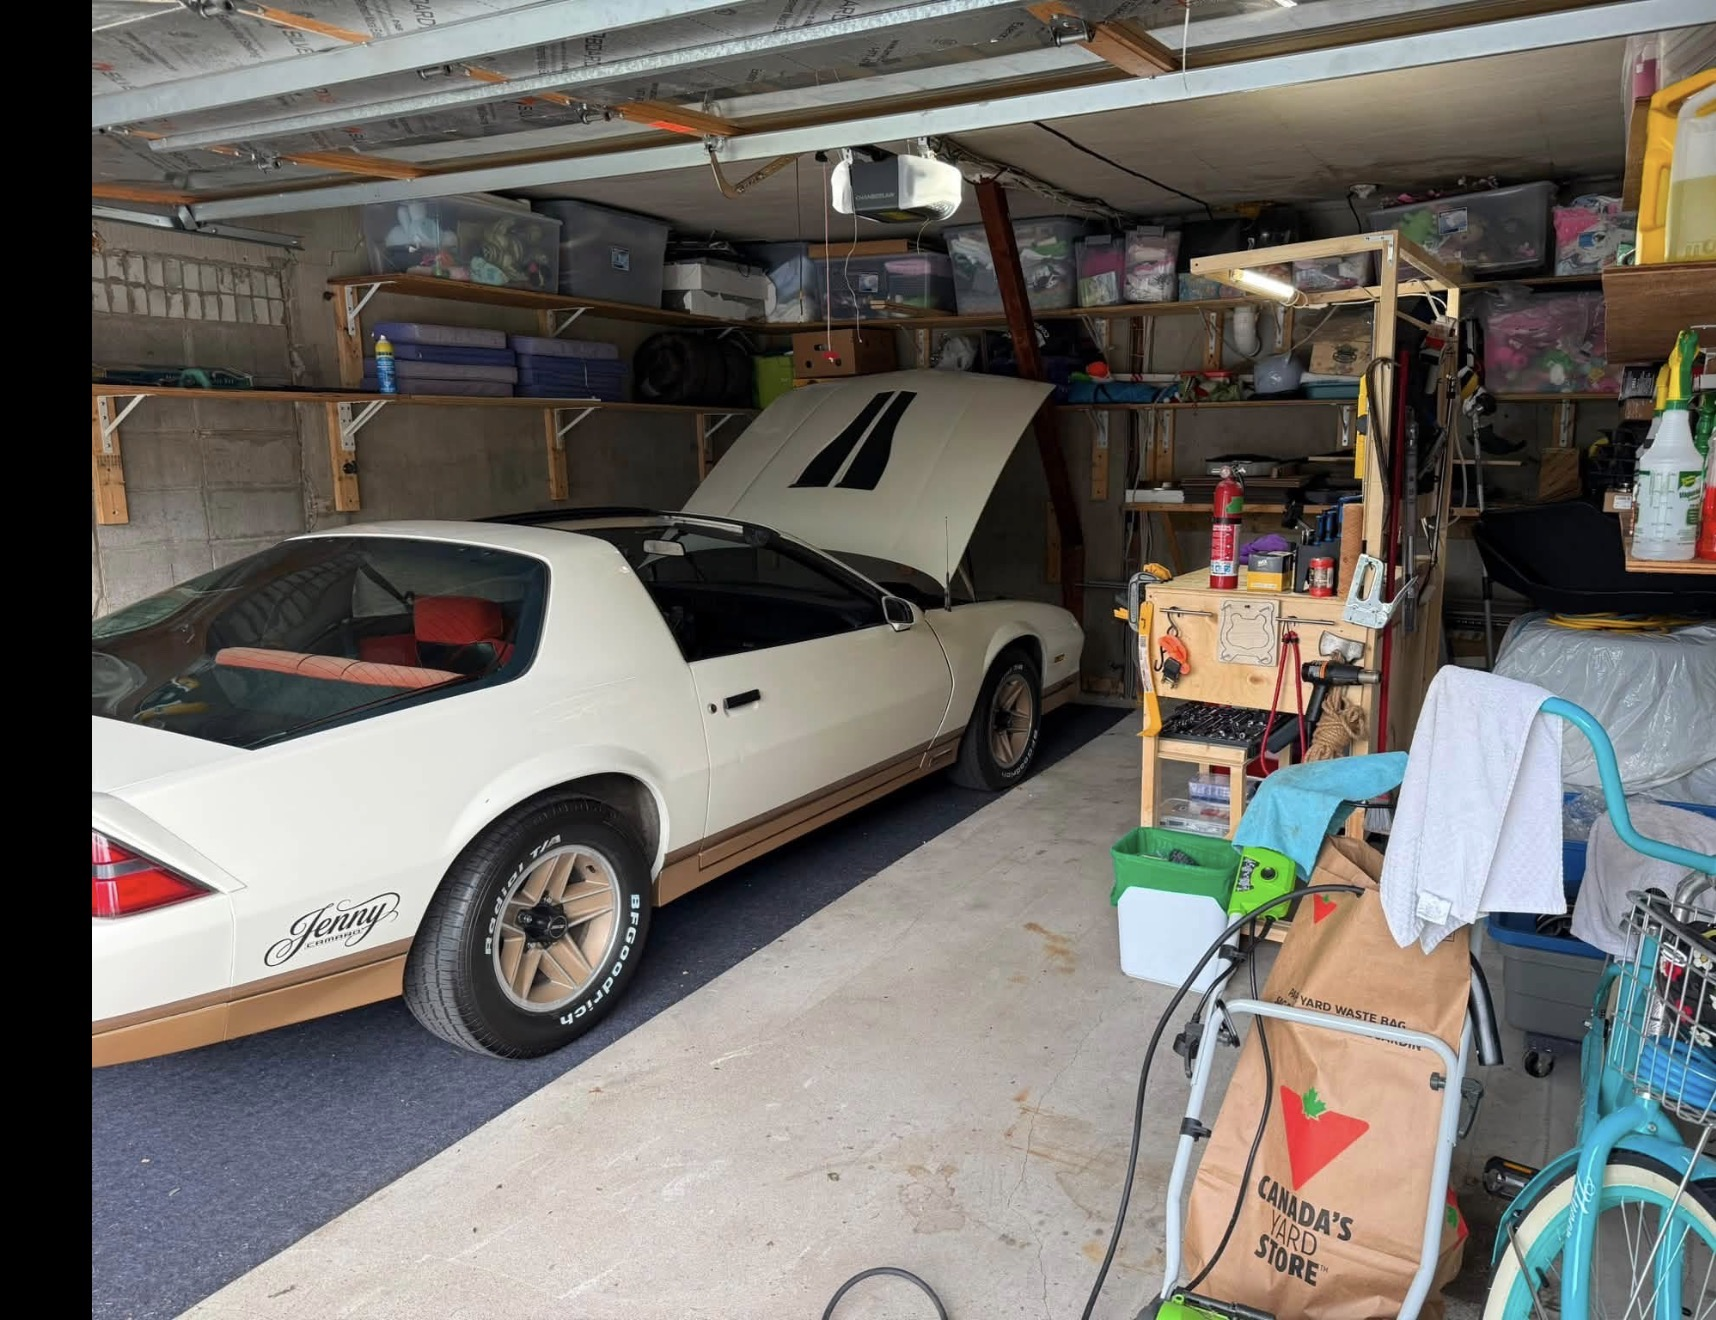
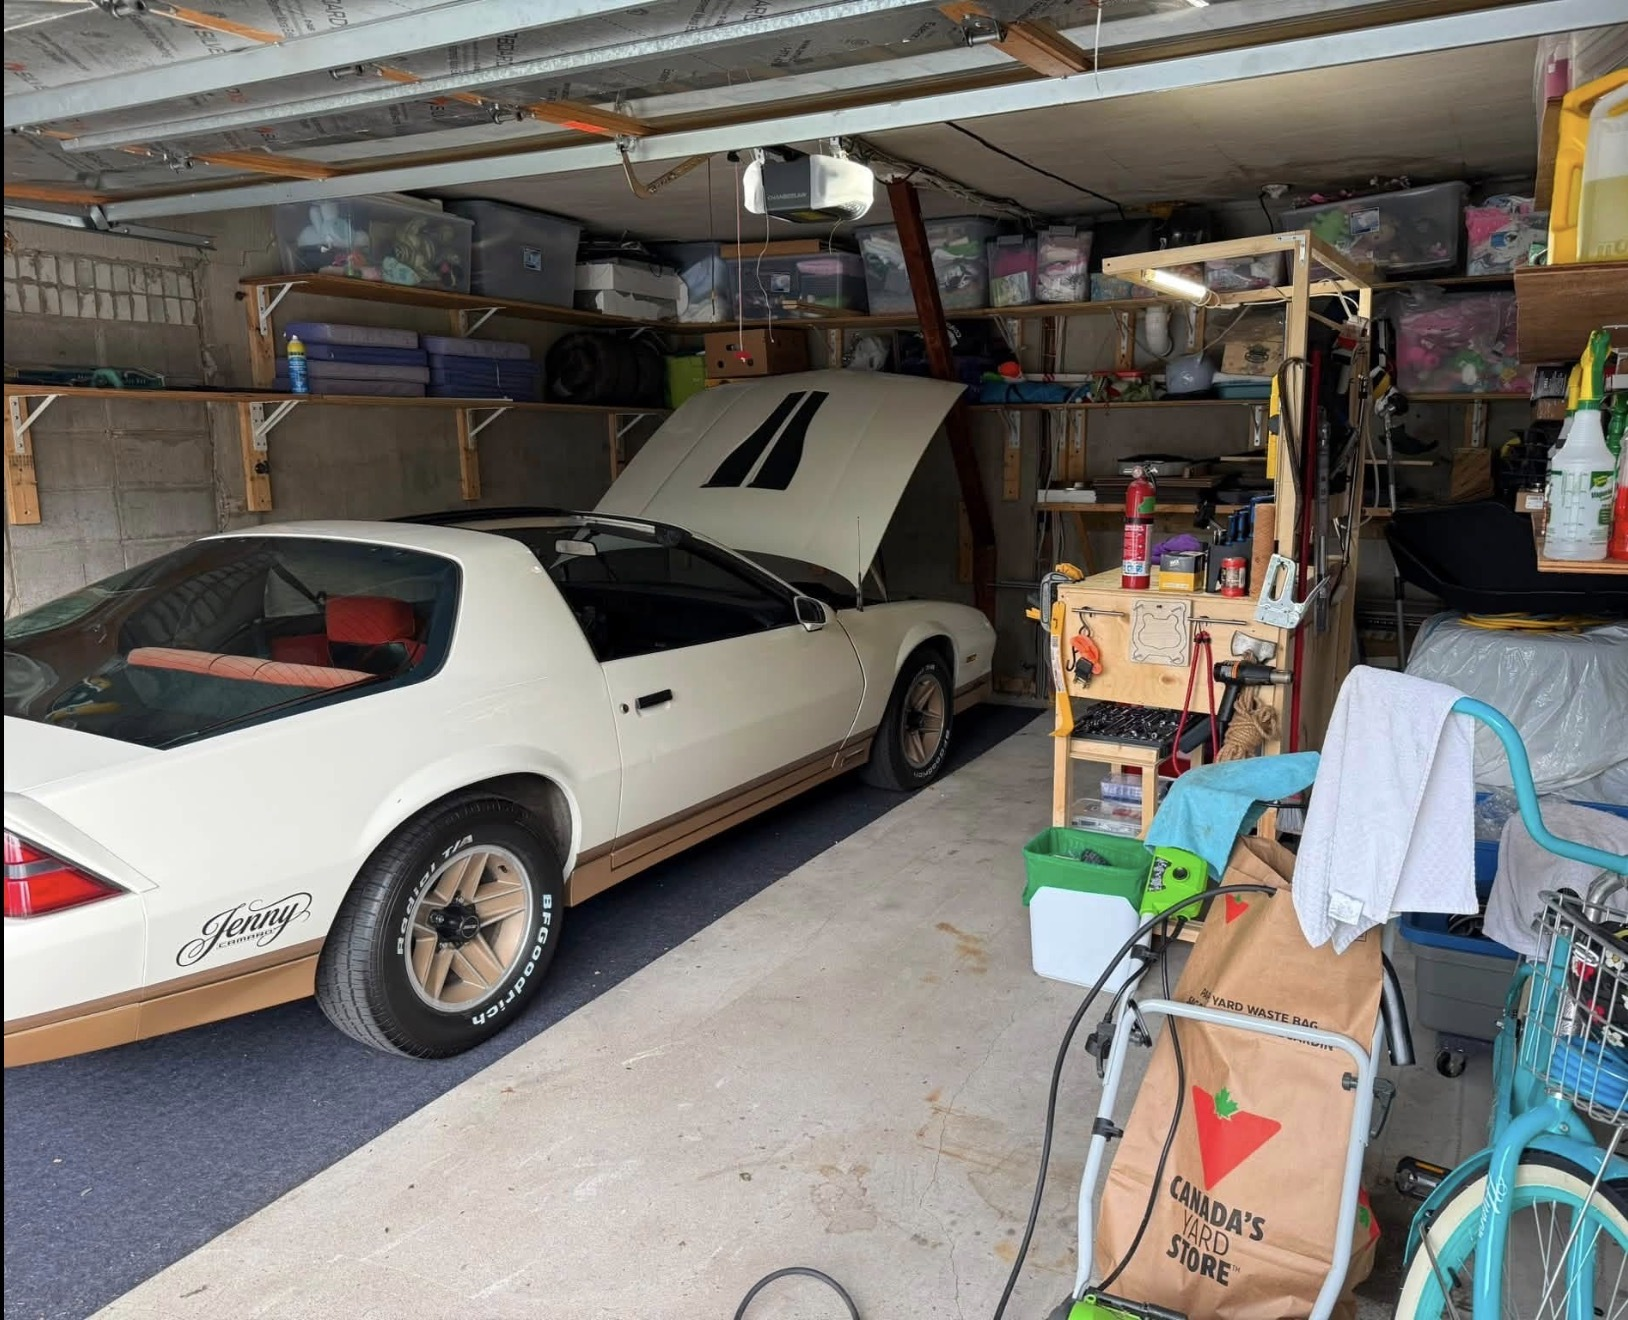
July 11: crop black edge on garage shot; even gutters; more text space

diff --git a/simple-site/logs/index.html b/simple-site/logs/index.html
@@ -202,7 +202,7 @@
     }
     .log-beside 
     .log-copy-after-photos {
-      margin-top: 1.1rem;
+      margin-top: 1.75rem;
       max-width: 720px;
     }
 
@@ -215,7 +215,7 @@
       display: grid;
       grid-template-columns: repeat(3, minmax(0, 1fr));
       gap: 10px;
-      margin: 1.1rem 0 0;
+      margin: 1.75rem 0 0;
       max-width: 720px;
     }
     .log-thumbs-row img {
@@ -262,14 +262,15 @@
       display: grid;
       grid-template-columns: 1fr 1fr;
       gap: 10px;
-      margin: 1.1rem 0 0;
+      margin: 1.75rem 0 0;
       max-width: 720px;
-      align-items: start;
+      align-items: stretch;
     }
     .log-pair img {
       display: block;
       width: 100%;
-      height: auto;
+      height: 100%;
+      object-fit: cover;
       border-radius: 6px;
       cursor: zoom-in;
     }
@@ -1041,14 +1042,14 @@
           <p>When I saw what he did to me, you can imagine how I felt..... ECSTATIC!! Uh, yeah, what did you think I was gonna say, holy $h!t I love this. This is the first good thing this idiot has ever done. <a class="ext" href="../projects/jenny-logo/">more here</a></p>
         </div>
       </article>
-<article class="log-entry" id="2026-07-11"><!-- jul11-sandwich-v3 -->
+<article class="log-entry" id="2026-07-11"><!-- jul11-sandwich-v4 -->
         <time class="log-date" datetime="2026-07-11">July 11, 2026</time>
         <div class="log-copy">
           <p>OMG, like finally, it's July and I'm only now getting a clean bill of health... well sort of...</p>
         </div>
         <div class="log-pair">
           <img class="zoomable" src="../assets/logs/2026-07-11-01.jpg?v=1" data-full="../assets/logs/2026-07-11-01.jpg?v=1" alt="Jenny in the garage with the hatch open — tap to enlarge" width="1748" height="1320" />
-          <img class="zoomable" src="../assets/logs/2026-07-11-02.jpg?v=1" data-full="../assets/logs/2026-07-11-02.jpg?v=1" alt="Jenny in the garage with the hood open — tap to enlarge" width="1716" height="1320" />
+          <img class="zoomable" src="../assets/logs/2026-07-11-02.jpg?v=3" data-full="../assets/logs/2026-07-11-02.jpg?v=3" alt="Jenny in the garage with the hood open — tap to enlarge" width="1628" height="1320" />
         </div>
         <div class="log-copy log-copy-after-photos">
           <p>Listen, nobody asked this idiot to rip me to pieces over the winter, I seemed to be getting around last summer just fine. Sure, I was overheating, and consuming massive fuel. Maybe my timing was off, my filters were clogged, and my carburetor was out of adjustment, but when you turned the key, I'd eventually start, get off my case about it.</p>

diff --git a/simple-site/index.html b/simple-site/index.html
@@ -134,7 +134,7 @@
     }
     .log-beside 
     .log-copy-after-photos {
-      margin-top: 1.1rem;
+      margin-top: 1.75rem;
       max-width: 720px;
     }
 
@@ -147,7 +147,7 @@
       display: grid;
       grid-template-columns: repeat(3, minmax(0, 1fr));
       gap: 10px;
-      margin: 1.1rem 0 0;
+      margin: 1.75rem 0 0;
       max-width: 720px;
     }
     .log-thumbs-row img {
@@ -196,14 +196,15 @@
       display: grid;
       grid-template-columns: 1fr 1fr;
       gap: 10px;
-      margin: 1.1rem 0 0;
+      margin: 1.75rem 0 0;
       max-width: 720px;
-      align-items: start;
+      align-items: stretch;
     }
     .log-pair img {
       display: block;
       width: 100%;
-      height: auto;
+      height: 100%;
+      object-fit: cover;
       border-radius: 6px;
       cursor: zoom-in;
     }
@@ -318,14 +319,14 @@
     <h2 class="whats-head">What's New</h2>
     <div class="whats-stream">
 
-<article class="log-entry" id="2026-07-11"><!-- jul11-sandwich-v3 -->
+<article class="log-entry" id="2026-07-11"><!-- jul11-sandwich-v4 -->
         <time class="log-date" datetime="2026-07-11">July 11, 2026</time>
         <div class="log-copy">
           <p>OMG, like finally, it's July and I'm only now getting a clean bill of health... well sort of...</p>
         </div>
         <div class="log-pair">
           <img class="zoomable" src="./assets/logs/2026-07-11-01.jpg?v=1" data-full="./assets/logs/2026-07-11-01.jpg?v=1" alt="Jenny in the garage with the hatch open — tap to enlarge" width="1748" height="1320" />
-          <img class="zoomable" src="./assets/logs/2026-07-11-02.jpg?v=1" data-full="./assets/logs/2026-07-11-02.jpg?v=1" alt="Jenny in the garage with the hood open — tap to enlarge" width="1716" height="1320" />
+          <img class="zoomable" src="./assets/logs/2026-07-11-02.jpg?v=3" data-full="./assets/logs/2026-07-11-02.jpg?v=3" alt="Jenny in the garage with the hood open — tap to enlarge" width="1628" height="1320" />
         </div>
         <div class="log-copy log-copy-after-photos">
           <p>Listen, nobody asked this idiot to rip me to pieces over the winter, I seemed to be getting around last summer just fine. Sure, I was overheating, and consuming massive fuel. Maybe my timing was off, my filters were clogged, and my carburetor was out of adjustment, but when you turned the key, I'd eventually start, get off my case about it.</p>
